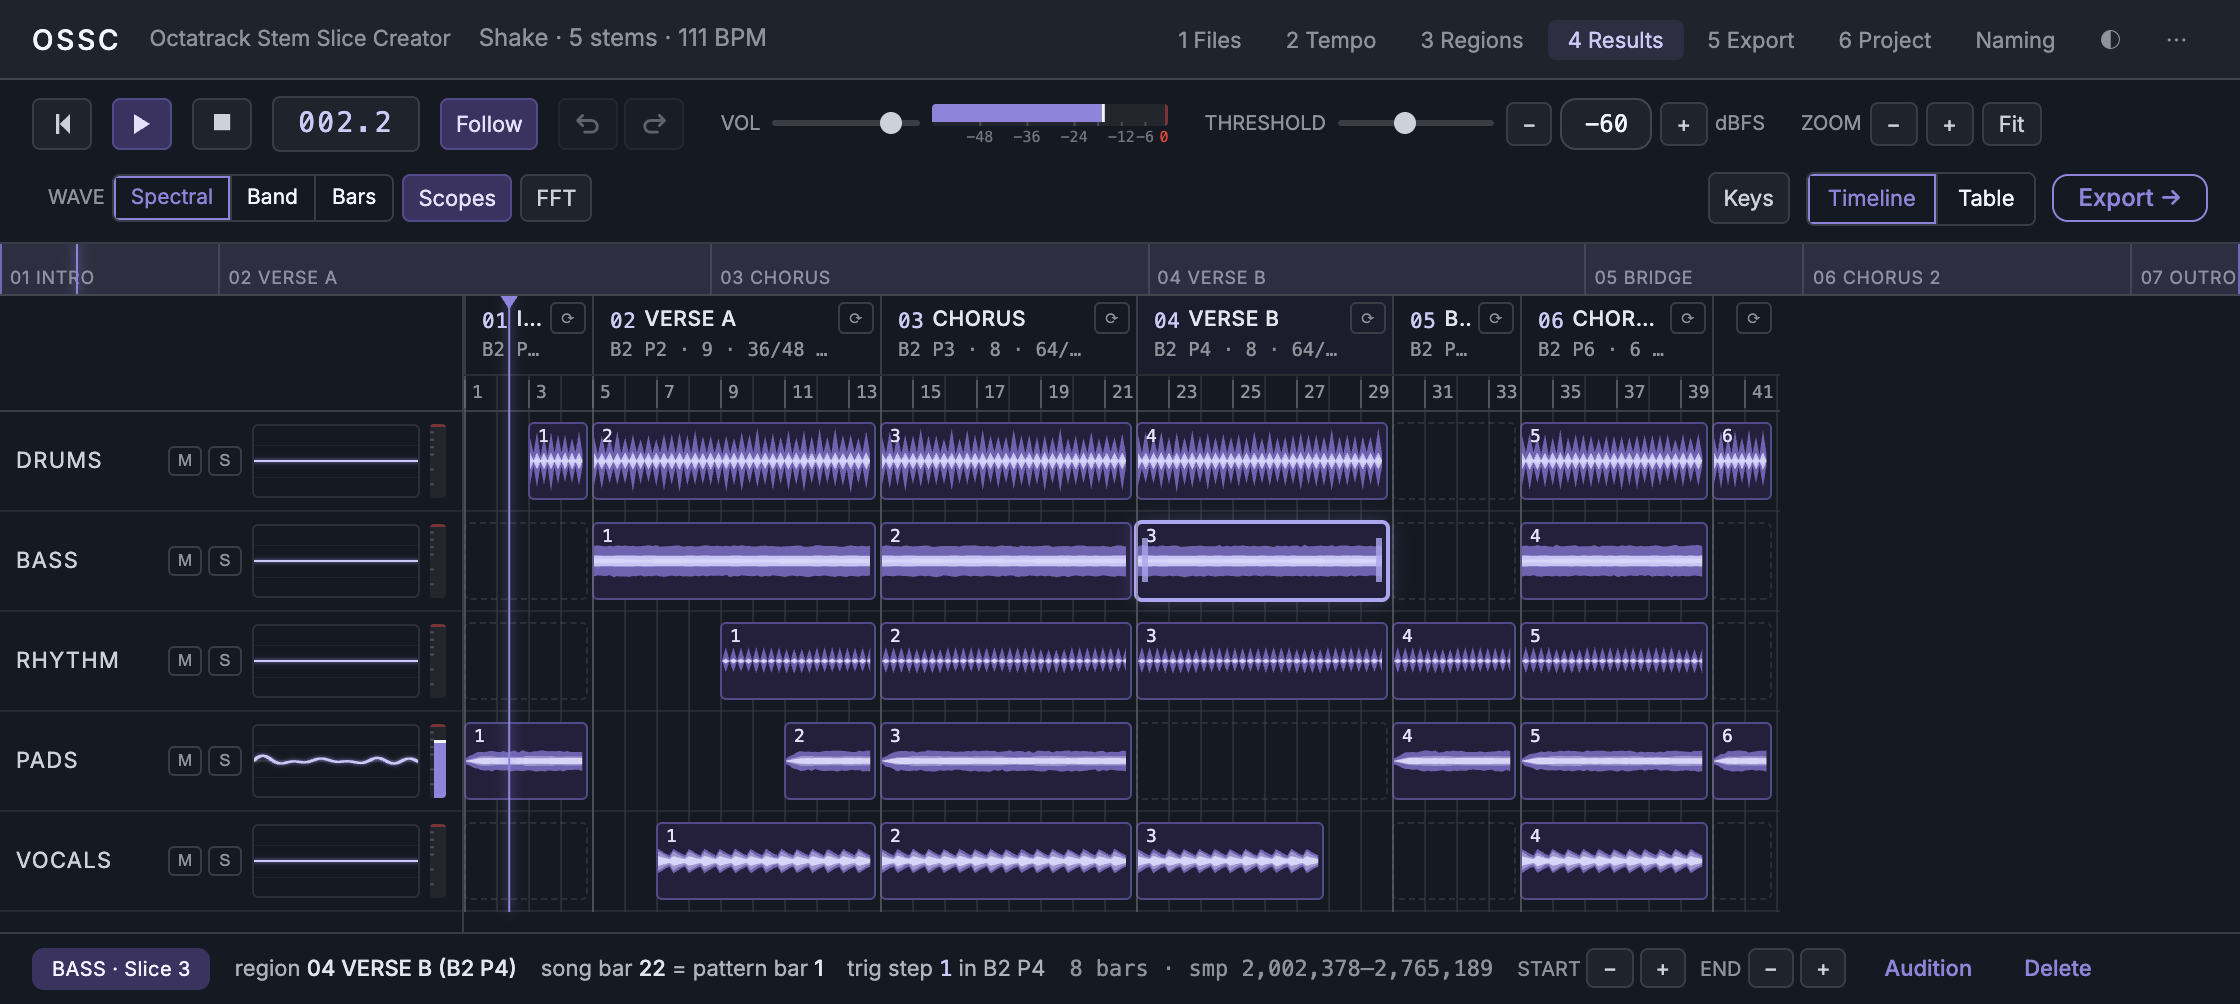
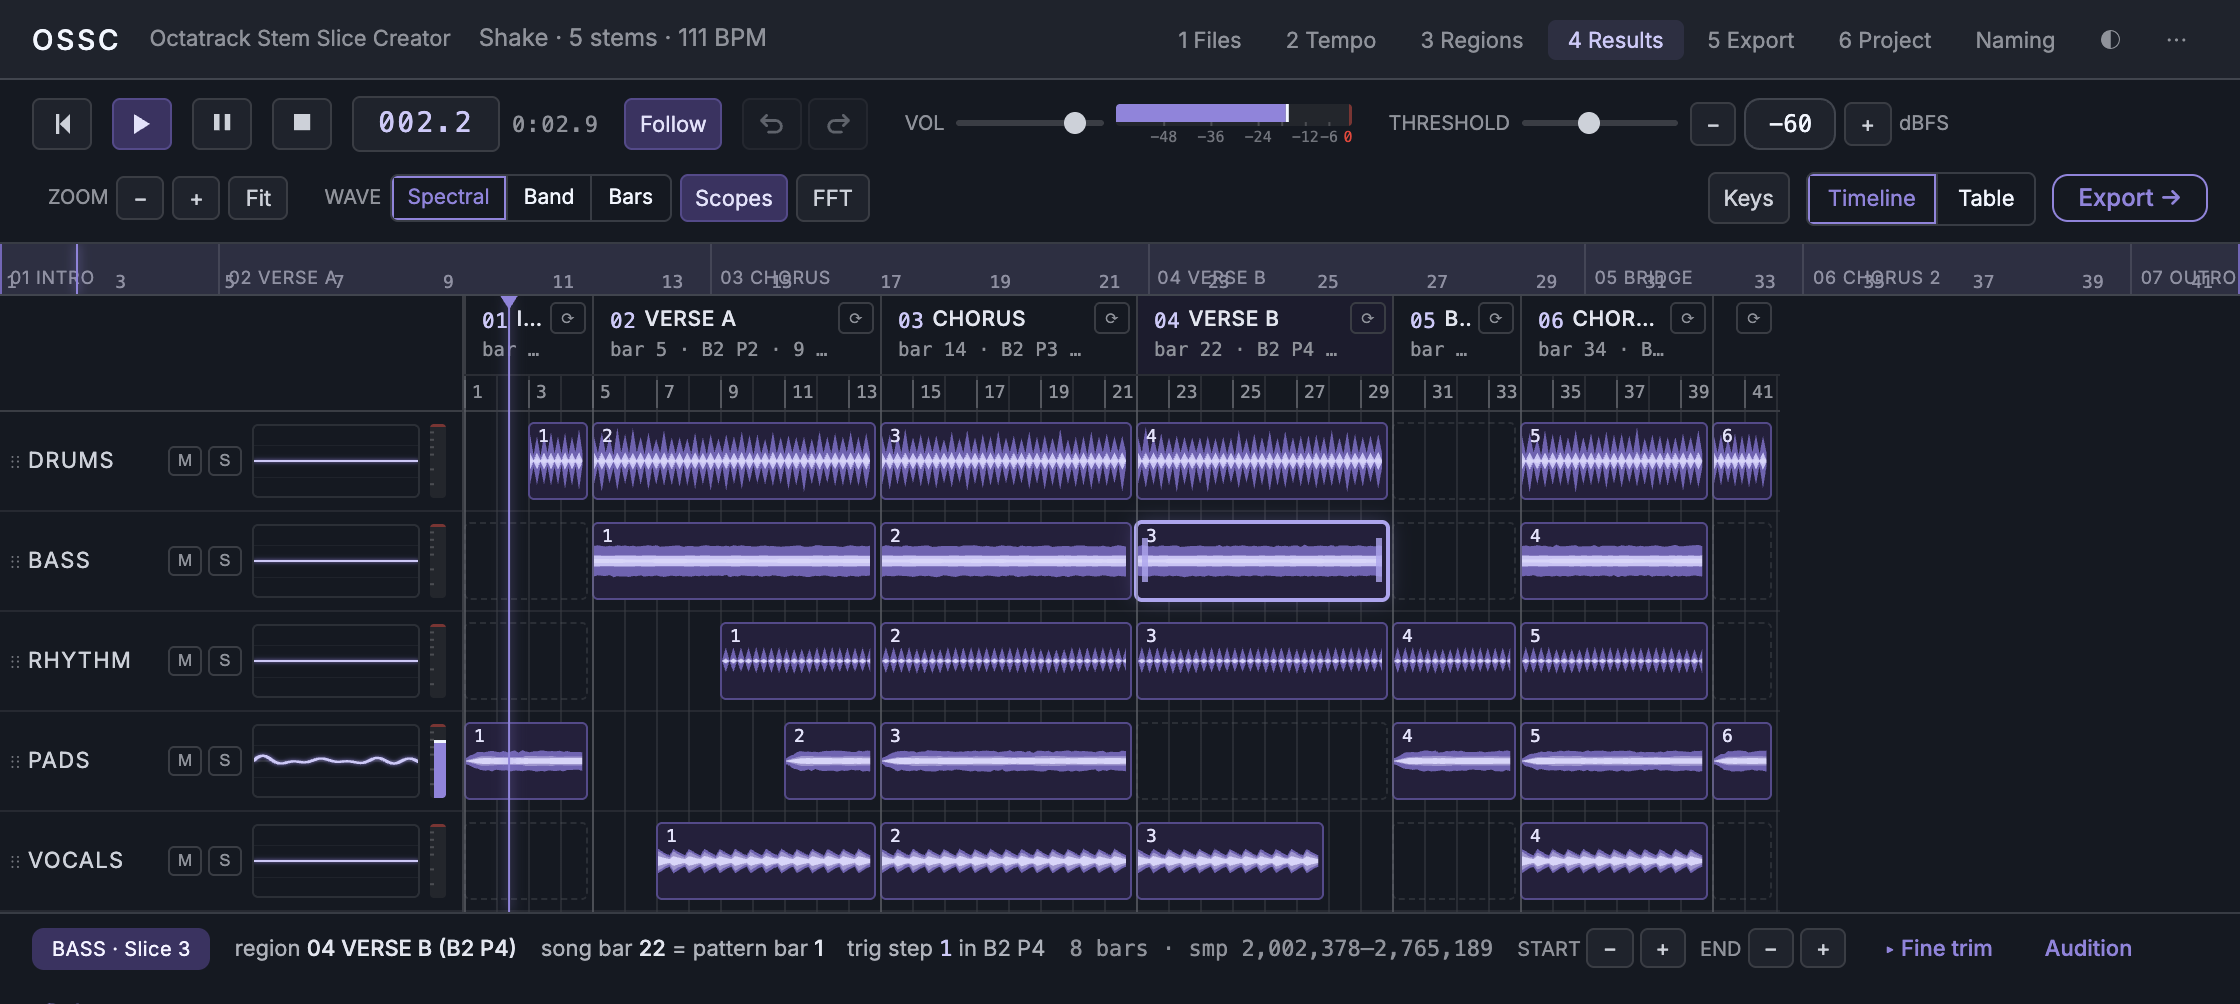
Document the new editor, delivery and PWA features; refresh screenshots
The README now covers pause/resume, the ruler loop brace, the live device
pattern readout, fine trim with zero-crossing snap, track reordering,
overview zoom, view-state restore, direct write-to-card with on-disk
verification, the project inspector, offline/PWA install, and the 8×64
stress demo + perf harness. The device caveat is updated to reflect that
the export format is now verified on an Octatrack running OS 1.40, in
bytes and in practice.

diff --git a/README.md b/README.md
@@ -6,7 +6,7 @@
 Drop in your stems and an arrangement MIDI; get back sliced sample chains, `.ot` slice grids,
 and pattern-programmed banks — ready to perform.
 
-### ▶ [**Open the app**](https://xuio.github.io/octatrack-exporter/) · runs entirely in your browser, nothing is uploaded
+### ▶ [**Open the app**](https://xuio.github.io/octatrack-exporter/) · runs entirely in your browser, nothing is uploaded · installable, works offline
 
 <img src="docs/img/05-timeline.png" alt="OSSC timeline" width="100%">
 
@@ -125,16 +125,20 @@ actually audible; everything else is you refining it:
 | --- | --- |
 | **Threshold** | Raise it to drop quiet tails, lower it to keep them. Every slice re-trims live. |
 | **Drag a slice edge** | Trim it, quantized to bars. Drag past a section boundary and the overhang becomes its **own clip in the next section** — the same shape the import would have made. |
+| **Fine trim** | Open it from the selection bar: move a slice edge by *samples* on a zoomed strip of the boundary, or snap it to the nearest **zero crossing** so the slice can't click on the device. Moves the slice point only — the audio is untouched, and the offset survives later bar-level drags. |
 | **Delete / dashed blocks** | Remove a slice, or click the dashed placeholder to bring one back. |
-| **⌘Z / ⇧⌘Z** | Undo and redo — one entry per drag, and it covers renames and the threshold too, not just clip edits. |
-| **Double-click** | Rename a track or a section right in the timeline. |
-| **Space, ruler, overview strip** | Play/stop, scrub, and jump anywhere in the song. |
-| **⟳ on a section** | Loop it. Releasing the loop keeps playing rather than stopping. |
+| **⌘Z / ⇧⌘Z** | Undo and redo — one entry per drag, and it covers renames, reorders and the threshold too, not just clip edits. |
+| **Double-click** | Rename a track or a section right in the timeline. Double-click a section in the *overview strip* to zoom the timeline onto it. |
+| **Space** | Play / **pause** — pausing freezes at the audible position and play resumes exactly there, even inside a loop. Home stops back to bar 1. |
+| **⟳ on a section** | Loop it. The transport then shows the device's view — `B2 P3 · 1/2x · step 12/32`, live — with ◀ ▶ to move the loop across patterns while it plays. Releasing a loop keeps playing rather than stopping. |
+| **⇧-drag in the ruler** | Loop any bar range — the brace is drawn in the ruler for range and section loops alike. |
+| **Drag the ⋮⋮ grip** | Reorder tracks right in the timeline rail (this is the Octatrack track order). Analysis, edits and playback all survive the move. |
 | **Pinch / ⌘-scroll** | Zoom; waveform detail grows as you go in. |
 
 The whole editor is reachable from the keyboard — press **?** (or the **Keys** button) for the full
-list. Arrows walk the grid of tracks × sections, and **⇧←/→** and **⌥←/→** move the selected clip's
-start and end a bar at a time, which is how you make a bar-exact edit without a steady hand.
+list. Arrows walk the grid of tracks × sections, **⇧←/→** and **⌥←/→** move the selected clip's
+start and end a bar at a time, and **, . &lt; &gt;** nudge its edges by a millisecond (**z** snaps both
+to zero crossings) — bar-exact and click-free edits without a steady hand.
 
 Everything you change is audible immediately — trims, deletes, undo and threshold moves all re-cue
 the transport where it is playing.
@@ -148,7 +152,11 @@ you *hear* rather than what has been handed to the audio device — on Bluetooth
 between the marker leading the sound by a beat and it being in step.
 
 Edits are saved as you go. Reload the page, drop the same stems back in, and OSSC offers to put your
-trims, names and tempo back — the audio is too large to keep, but the work is not.
+trims, names and tempo back — along with the view itself: zoom, scroll, the selected clip, the loop
+and the start bar land where you left them. The audio is too large to keep, but the work is not.
+
+OSSC is also an installable PWA: once loaded, it works fully offline — everything runs client-side
+anyway, so a studio without internet changes nothing.
 
 Switch to **Table** for the pattern map: which slice each track trigs in each pattern, and on which
 step.
@@ -179,19 +187,29 @@ and you get back a complete copy under a name of your choosing:
 before a byte is written, and the part region — where scenes live — is checked byte-identical
 afterwards. On any mismatch that bank is copied through untouched and the sheet tells you so.
 
+**Delivery is your choice.** Download the result as a `.zip`, or — in Chrome and Edge — click
+**Write to folder…** and OSSC writes the project straight onto the mounted CF card via the File
+System Access API: no zip, no extracting, no wrong-folder mistakes. After a direct write it reads
+every file back **off the disk** and re-runs the full verification on what is actually there, so
+the report can honestly say *"Verified on disk"*.
+
 **Everything written is then read back.** Once the files are assembled, OSSC decodes them again —
 every trig, the slice each one fires, the per-track scales, both slice grids, the gains and all the
-checksums — and diffs that against the pattern table on screen. The report says so explicitly:
+checksums — and diffs that against the pattern table on screen. The result is rendered, not just
+prose: a green banner with the counts, and a collapsible table decoded **back out of the written
+bank bytes** — step → slice chips per pattern per track, mismatches in red.
 
-> Readback verified: 34 trigs across 7 patterns, 33 slices and every checksum decode back to
-> exactly what the pattern table shows
+The same decoder powers **Inspect programmed patterns**: drop any previously exported project on
+the Project step and see exactly what is programmed in its banks and slice grids, before touching
+anything.
 
-This cannot prove the device agrees with OSSC's reading of the file format — only a device can do
-that. What it does prove is that the writers did what this build intended, which is where every
-format bug in this project's history has actually been: a slice number stored at the wrong scale, a
-trig mask byte in the wrong half-page, the recorder's +12 dB gain default. All three would have
-failed this check before reaching a CF card, and each one is now a test case in
-[`tests/readback.test.js`](tests/readback.test.js).
+The readback pass proves the writers did what this build intended, which is where every format bug
+in this project's history had actually been: a slice number stored at the wrong scale, a trig mask
+byte in the wrong half-page, the recorder's +12 dB gain default. All three would have failed this
+check before reaching a CF card, and each one is now a test case in
+[`tests/readback.test.js`](tests/readback.test.js). And the format itself is no longer only
+reasoning: the full export path — unity gain, slice numbers, trig placement, per-track scales with
+MASTER INF — **has been verified on an Octatrack running OS 1.40**.
 
 **One step remains on the device:** on each used track, assign a **STATIC** machine and set its
 default sample (**TRK DEFAULT**) to the matching slot. Trigs carry no sample locks, so that is all
@@ -257,7 +275,13 @@ offsets, and they are all just numbers until something checks them.
 Pushing to `main` lints, tests, builds, and deploys to GitHub Pages
 ([`.github/workflows/pages.yml`](.github/workflows/pages.yml)).
 The README screenshots are regenerated with `node scripts/screenshots.mjs` against a running
-`npm run preview`.
+`npm run preview`; `node scripts/perf.mjs` measures the app at its ceiling (the built-in
+**Stress · 8×64** demo: 8 stems × 64 sections, 457 clips) — scroll frame times, long tasks,
+zoom/edit/undo latency — and `scripts/icons.mjs` regenerates the PWA icons from `public/icon.svg`.
+
+Performance at that ceiling is paint-bound, not JS-bound: zero long tasks during a full-song
+scroll and 120 fps playback with scopes on (at 1× CPU). The numbers that justified — or ruled
+out — each optimization are recorded in the code next to what they measured.
 
 ### Project structure
 
@@ -275,9 +299,11 @@ src/
     pcm.js                   band-limited resampling + PCM packing
     wav.js  aiff.js  midi.js format parsing
     analysis.js              per-measure peaks, silence trim, waveform data
-    slices.js                slice building, manual trims, boundary splitting
+    slices.js                slice building, manual + fine trims, boundary splitting
+    zerocross.js             zero-crossing search for click-free slice points
     otFile.js  bankFile.js  markersFile.js  projectFile.js   device writers
     readback.js              device-file readers + the export verifier
+    transport.js  timelineView.js   pure transport / view math
     zip.js  unzip.js  dnd.js  meters.js  demo.js
 
   audio/
@@ -288,21 +314,25 @@ src/
   waveform/WaveformCache.js  bar-anchored waveform cache
 
   export/                   "save something to disk", as pure functions
-    naming.js  stemFiles.js  patternSheet.js  projectBuild.js  download.js
+    naming.js  stemFiles.js  patternSheet.js  patternDecode.js
+    projectBuild.js  dirWrite.js  download.js
 
   state/                    one hook per concern
     usePrefs  useThemeColors  useAnimationFrame
     useStems  useMixer  useAnalysis  useSliceEdits  useHistory
     useTransport  usePlayhead  useTimelineView  useTimelineGestures  useTimelineKeys
-    useFileDrop  useProjectFolder  useDragResize  useExports
+    useFileDrop  useProjectFolder  useDragResize  useExports  useSession
 
   components/
     header/    Header, NamingPanel, ThemePicker
     steps/     FilesStep, TempoStep, RegionsStep, ResultsStep, ExportStep, ProjectStep
     timeline/  Transport, Overview, Ruler, RegionHeader, TrackRail, Lane,
-               SliceBlock, Playhead, SelectionBar, PatternTable
+               SliceBlock, Playhead, SelectionBar, FineTrim, PatternTable
+    project/   VerifyPanel, PatternTable (decoded), InspectPanel
     ui/        EditableLabel, Field, LevelMeter, Oscilloscope, DropZone,
                DropOverlay, Notices, ShortcutsPanel
+
+  public/                  PWA: manifest, icons, hand-rolled service worker
 
   styles/                  design tokens, themes, app styles
 
@@ -336,11 +366,12 @@ on-device verification and are recorded in [`docs/notes-formats.md`](docs/notes-
 importantly the trig-mask byte order (the published note is wrong for pages 2–4) and the fact that
 the slice p-lock stores a 0–127 `STRT` knob value at two ticks per slice.
 
-Verified against **Octatrack OS 1.40** (bank data version 23, markers version 4) only. The writers
-refuse to touch files whose structure doesn't match, and every generated project is read back and
-diffed against its own pattern table before you download it. That catches a writer doing something
-other than what was asked; it cannot catch OSSC and the device disagreeing about what a byte means.
-Keep a backup of your CF card and check the first generated project on the device before trusting
-it with a gig.
+Verified against **Octatrack OS 1.40** (bank data version 23, markers version 4) only — both in
+bytes and in practice: generated projects have been loaded and played back correctly on the device.
+The writers refuse to touch files whose structure doesn't match, and every generated project is
+read back and diffed against its own pattern table before it reaches your card. Still: keep a
+backup of your CF card, and give any new OS version a test project before trusting it with a gig —
+a format bump changes the data version, and the writers will (deliberately) refuse it until
+re-verified.
 
 Not affiliated with Elektron. Octatrack is a trademark of Elektron Music Machines.
